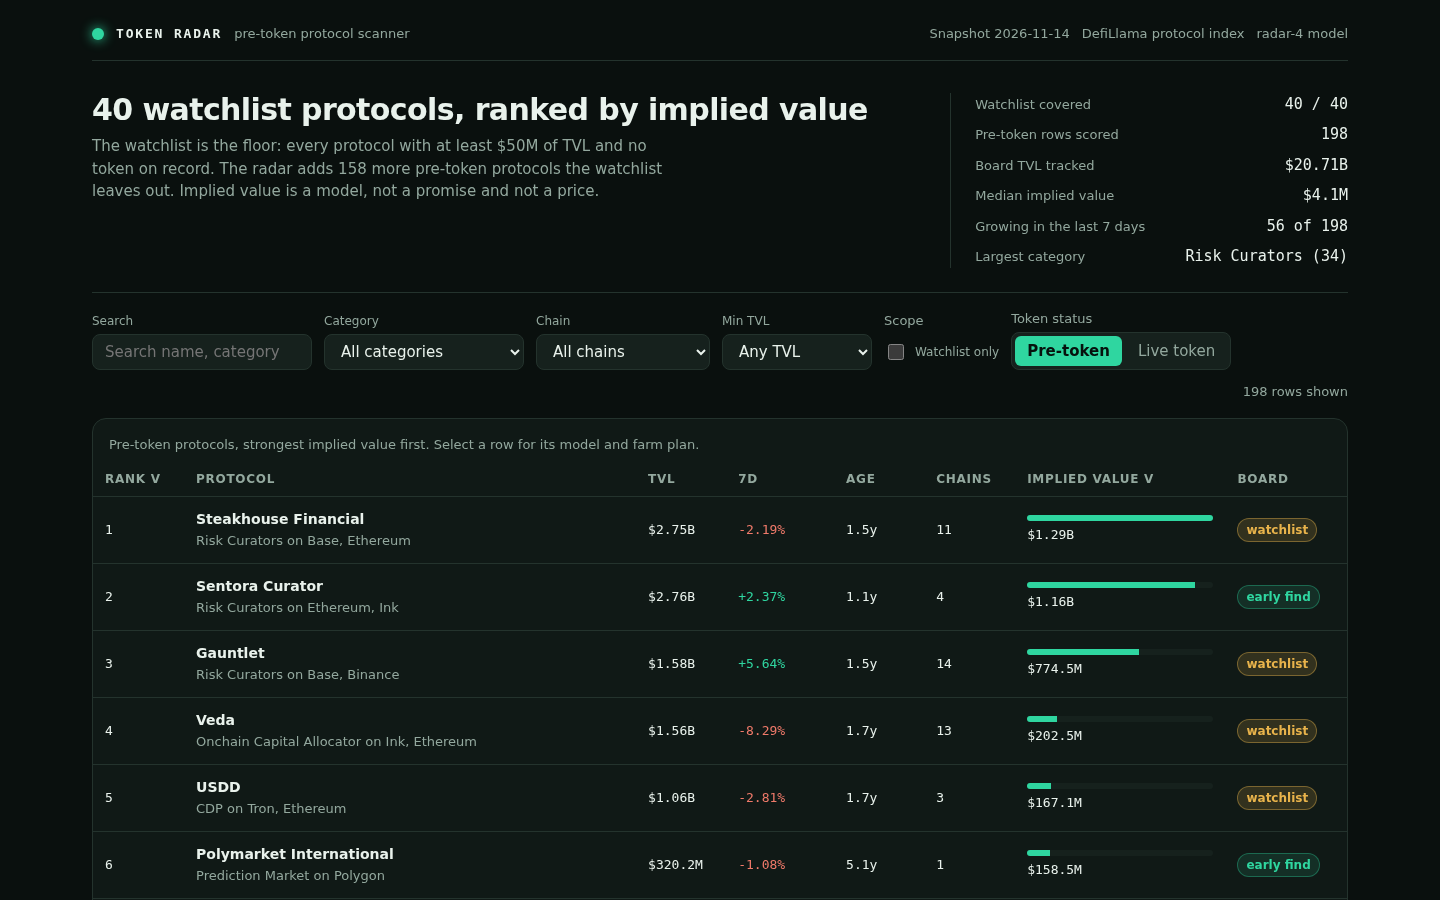
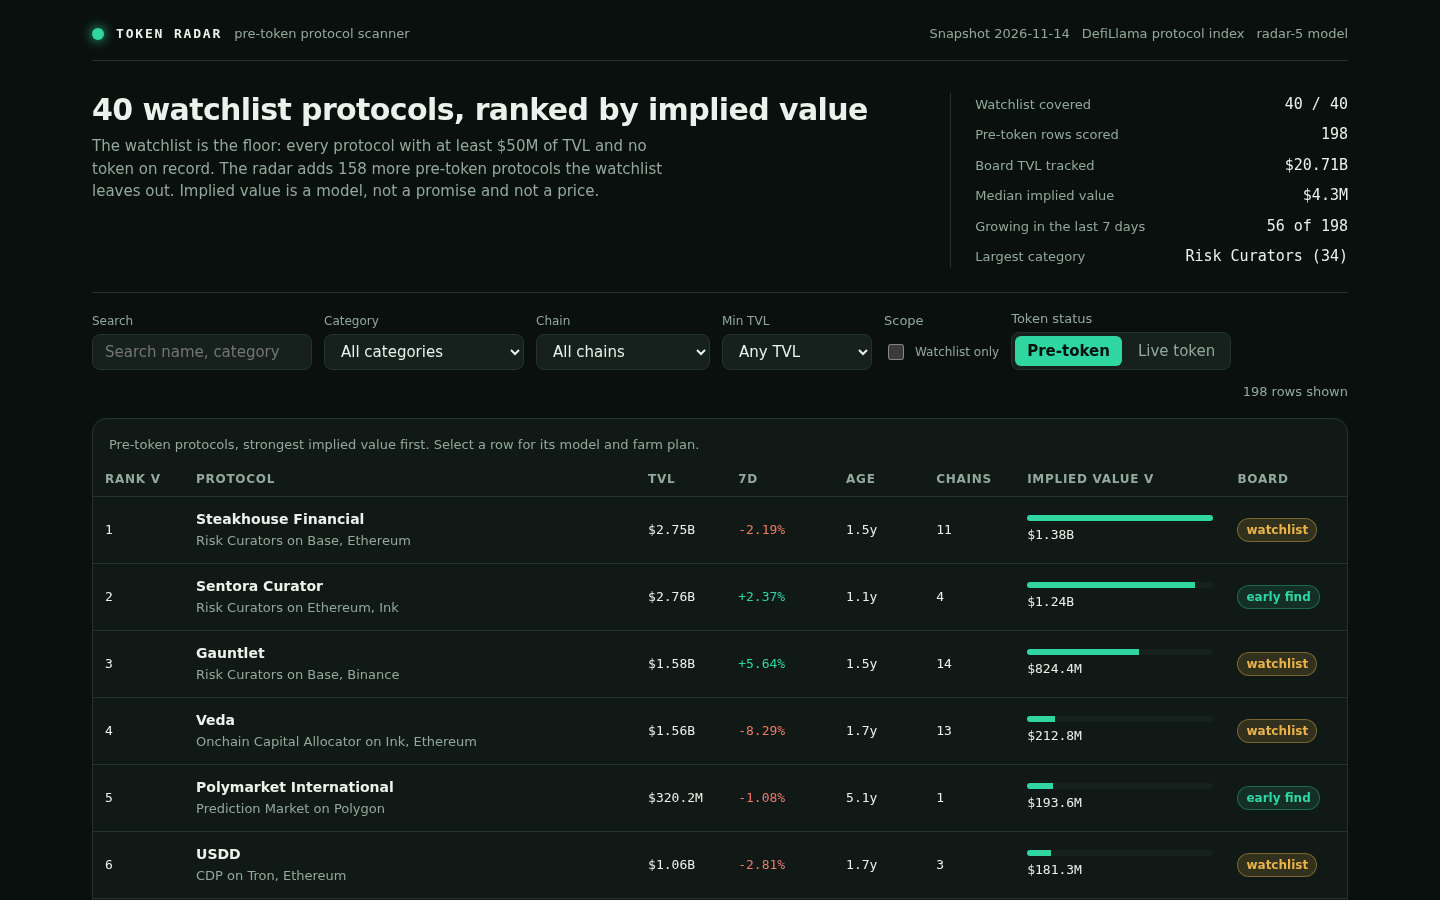
Token Radar radar-5: re-shoot screenshots from radar-5 build, README model label radar-5

diff --git a/README.md b/README.md
@@ -23,7 +23,7 @@ its cost and its time.
   id, no symbol) and is not a wrapped, staked or bridged product, not a versioned
   pool of another protocol, and not an exchange.
 
-## The model (radar-4)
+## The model (radar-5)
 
     implied = round( tvl_usd x comparable(category)
                      x (1 + clamp(change_7d, -60, 150) / 100 x 0.6)
